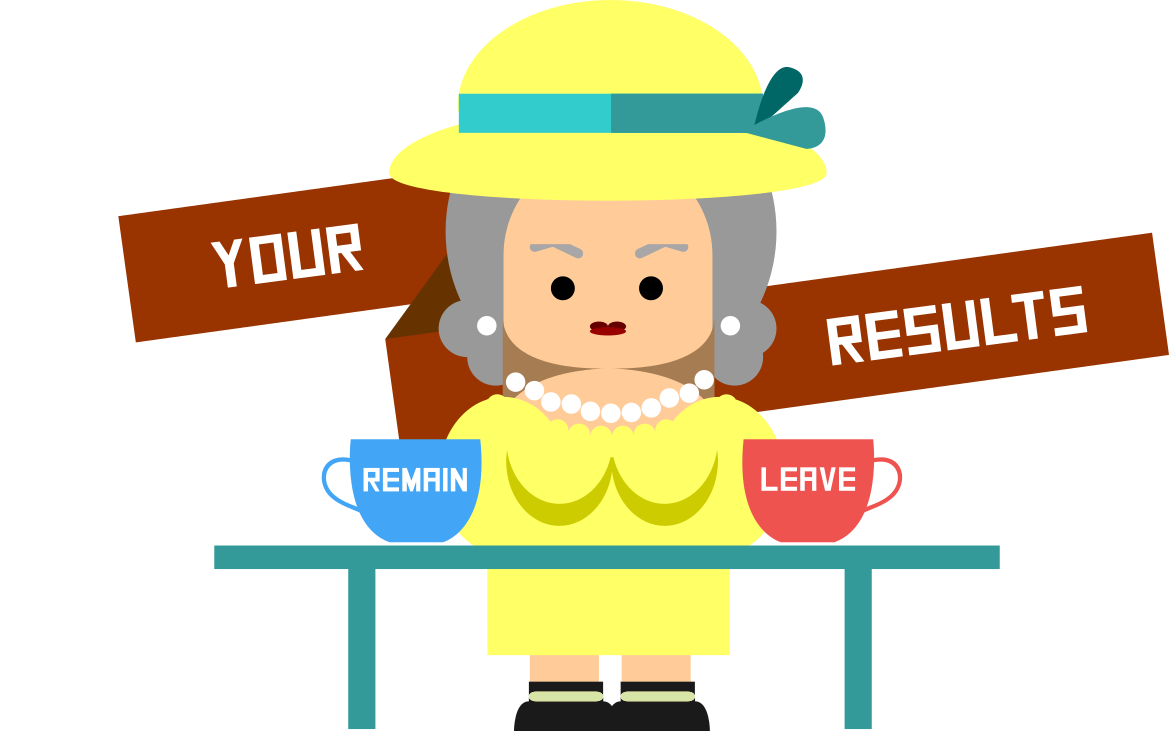
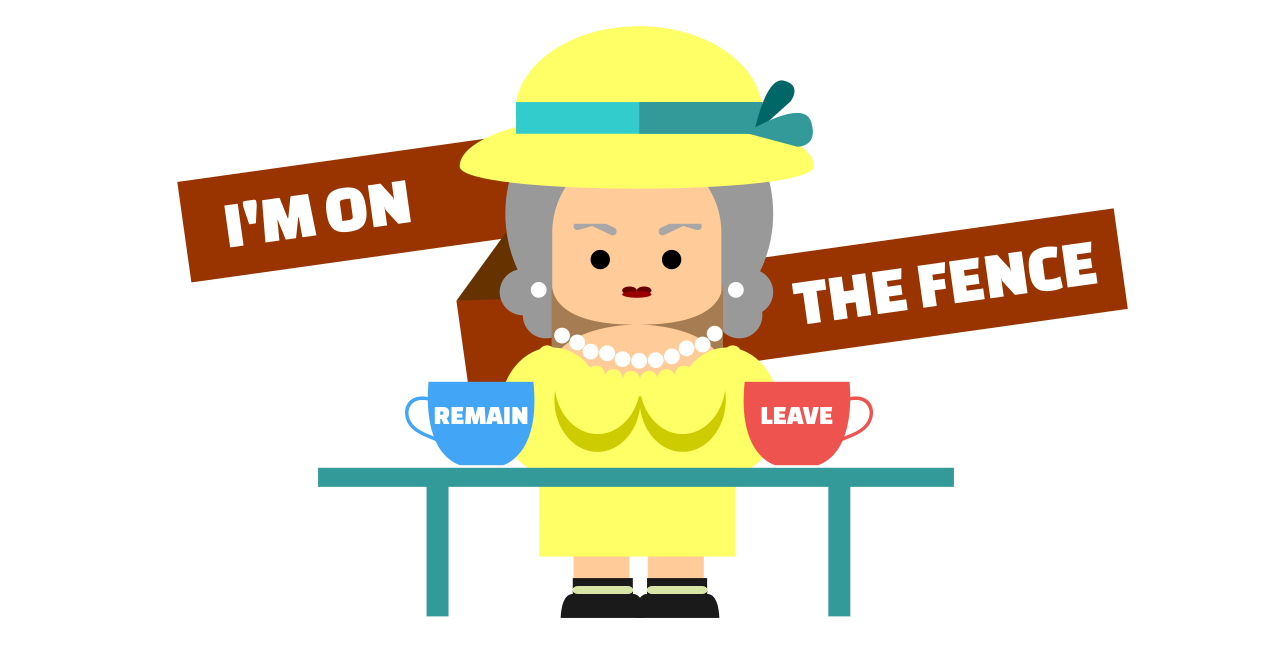
tweaked images and centralised results

Changed region(s): [[0.0924, 0.0, 1.0, 1.0]]

diff --git a/app/templates/results.html b/app/templates/results.html
@@ -16,7 +16,8 @@
 
 <div class="row">
     <div class="col-md-6 col-md-offset-3">
-        <img src="/static/img/results/{{image}}.png" class="queen_image" />
+        <!--<img src="/static/img/results/{{image}}.png" class="queen_image" />-->
+        <img src="/static/img/results/neutral.png" class="queen_image" />
     </div>
 </div>
 
@@ -43,7 +44,7 @@
 
 <div class="row share_btns">
     <div class="col-md-8 col-md-offset-2">
-        <div class="col-sm-4">
+        <div class="col-sm-4 text-center">
             <div class="btn-group fb-share-button">
                 <a href="https://www.facebook.com/sharer/sharer.php?u={{request.url}}" 
                    onclick="window.open('https://www.facebook.com/sharer/sharer.php?u={{request.url}}','name','width=694,height=432')"
@@ -56,7 +57,7 @@
             </div>
         </div>
 
-        <div class="col-sm-4">
+        <div class="col-sm-4 text-center">
             <div class="btn-group twitter-share-button">
                 <a href="https://twitter.com/intent/tweet?text={{result_share_str|urlencode}} {{request.url_root}}?utm_medium=tw"
                    onclick="window.open('https://twitter.com/intent/tweet?text={{result_share_str|urlencode}} {{request.url_root}}?utm_medium=tw','name','width=694,height=432')"
@@ -70,7 +71,7 @@
             </div>
         </div>
 
-        <div class="col-sm-4">
+        <div class="col-sm-4 text-center">
             <div class="btn-group whatsapp-share-button">
                 <a class="btn btn-whatsapp" 
                    title="Share on Whatsapp" 
